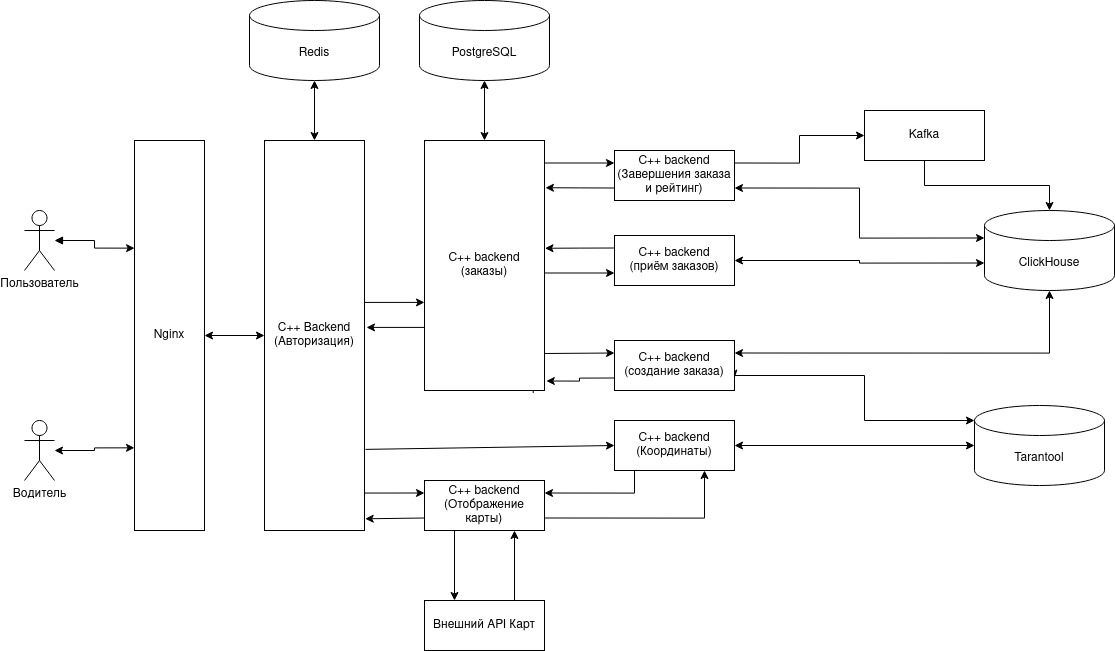
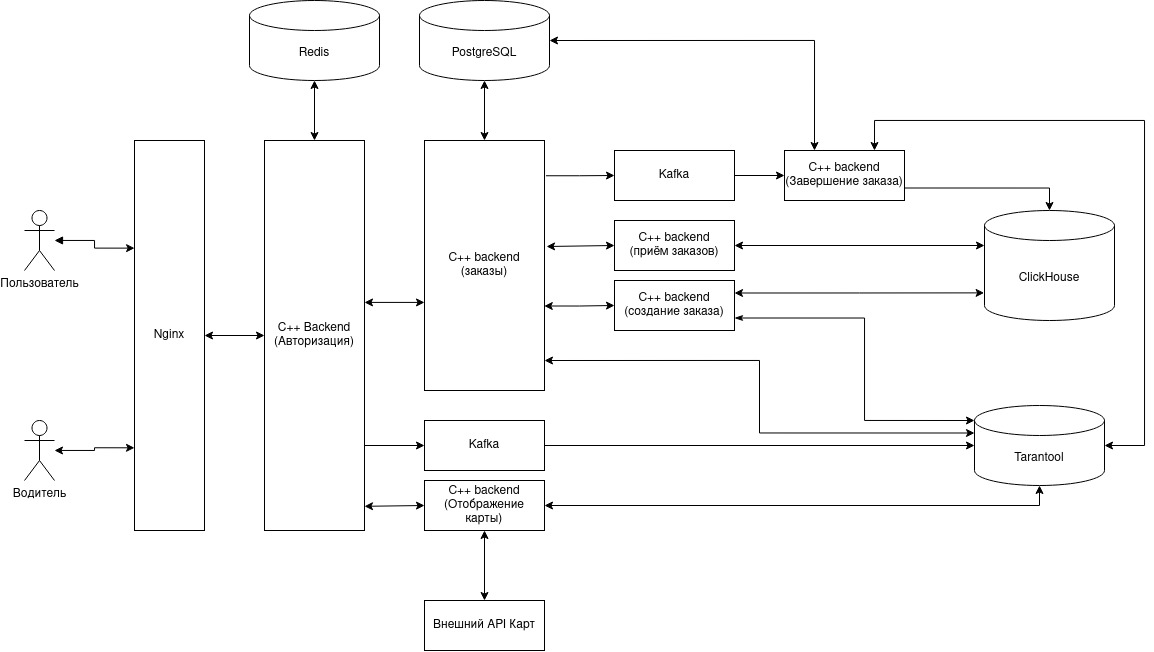
fixes

diff --git a/README.md b/README.md
@@ -22,9 +22,8 @@
 1. Профиль таксиста и пользователя.
 2. Заказ такси на адрес.
 3. Отображение списка заказов таксистам.
-4. Чат с водителем.
-5. Отображение местоположения таксистов.
-6. Построение маршрута и расчёт стоимости по этому маршруту.
+4. Отображение местоположения таксистов.
+5. Построение маршрута и расчёт стоимости по этому маршруту.
 
 ## 1.2 Целевая аудитория
 
@@ -247,8 +246,9 @@
 |Технология|Применение|Аргументация|
 |--|--|--|
 |С++|Back-end|Самый низкоуровневый и быстрый из ООП языков, а быстродействие в приоритете|
-|Tarantool|in-memory-вычисления|используется в местах, которые сильно ограничены временем, идеально подходит засчет своей производительности|
-|ClickHouse|обработка аналитических запросов|Хорошая БД для работы с аналитическими запросами|
+|PostgreSQL|База данных|используется в местах, которые требуют join запросов и при этом редк меняются|
+|Tarantool|База данных|используется в местах, которые сильно ограничены временем, идеально подходит засчет своей производительности|
+|ClickHouse|База данных и обработка аналитических запросов|Хорошая БД для работы с аналитическими запросами|
 |Redis|ib-memory хранение данных|Быстрая БД для данных, которые не опасно потерять|
 |Nginx|балансировка нагрузки, кэширование|широко распространенный, производительный веб-сервер, имеющий функции балансировщика L7 и кеширования|
 |Apache Kafka|брокер сообщений|отправка асинхронных сообщений между сервисами|
